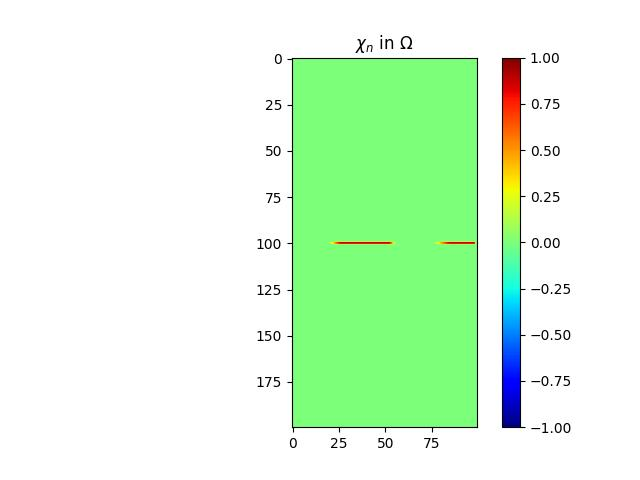
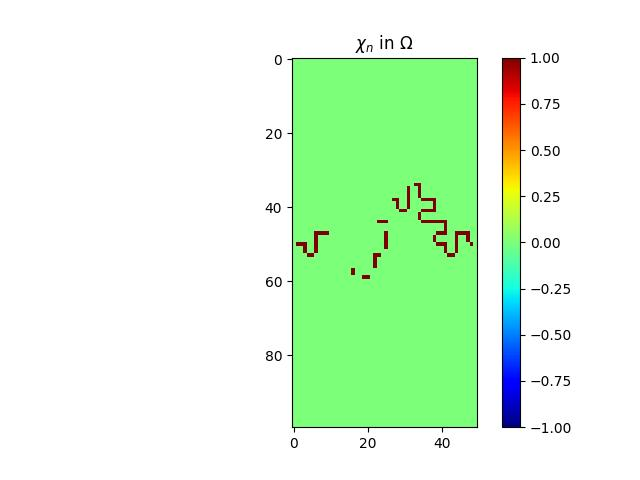
dgx

diff --git a/demo_control_polycopie2023.py b/demo_control_polycopie2023.py
@@ -145,6 +145,37 @@ def compute_projected(chi, domain, V_obj):
 
     return chi
 
+def compute_projected2(chi, domain, V_obj):
+    chi = processing.set2zero(chi, domain)
+    robin = domain == _env.NODE_ROBIN
+    S = domain[robin].size
+    
+    xmin = np.min(chi[robin])
+    xmax = np.max(chi[robin])
+    x = xmin 
+    
+    new_chi = chi.copy()
+    new_chi[chi < x] = 0
+    new_chi[chi >= x] = 1
+    
+    V = np.sum(np.abs(new_chi[robin]))/S
+    
+    while np.abs(V - V_obj) > 1e-1:
+        if V > V_obj:
+            xmin = x
+            x = (xmax + x)/2
+        else:
+            xmax = x
+            x = (x + xmin)/2
+        
+        new_chi[chi < x] = 0
+        new_chi[chi >= x] = 1
+        
+        V = np.sum(np.abs(new_chi[robin]))/S
+    
+    return new_chi
+        
+
 def optimization_procedure(domain_omega, spacestep, omega, f, f_dir, f_neu, f_rob,
                            beta_pde, alpha_pde, alpha_dir, beta_neu, beta_rob, alpha_rob,
                            Alpha, mu, chi, V_obj):
@@ -162,7 +193,6 @@ def optimization_procedure(domain_omega, spacestep, omega, f, f_dir, f_neu, f_ro
     numb_iter = 4
     energy = np.zeros((numb_iter, 1), dtype=np.float64)
     while k < numb_iter and mu > mu_min:
-        
         u = processing.solve_helmholtz(domain_omega, spacestep, omega, f, f_dir, f_neu, f_rob,
                                        beta_pde, alpha_pde, alpha_dir, beta_neu, beta_rob, chi*Alpha)
         p = processing.solve_helmholtz(domain_omega, spacestep, omega, -2*np.conjugate(u), np.zeros(f_dir.shape), f_neu, f_rob,
@@ -186,8 +216,9 @@ def optimization_procedure(domain_omega, spacestep, omega, f, f_dir, f_neu, f_ro
             
             
             ene = new_ene
-            
-        chi = new_chi.copy()
+        
+        if ene <= energy[k]: 
+            chi = compute_projected2(new_chi, domain_omega, V_obj)
         k += 1
 
     energy = energy[0:k]
@@ -220,7 +251,7 @@ if __name__ == '__main__':
     # -- set parameters of the geometry
     N = 50  # number of points along x-axis
     M = 2 * N  # number of points along y-axis
-    level = 0 # level of the fractal
+    level = 2 # level of the fractal
     spacestep = 1.0 / N  # mesh size
 
     # -- set parameters of the partial differential equation
@@ -332,7 +363,7 @@ if __name__ == '__main__':
         
         _u_rand = processing.solve_helmholtz(domain_omega, spacestep, _k, f, f_dir, f_neu, f_rob,
                         beta_pde, alpha_pde, alpha_dir, beta_neu, beta_rob, _chi_rand.copy()*_alpha)
-        _e_rand = compute_objective_function(domain_omega, _u, spacestep)
+        _e_rand = compute_objective_function(domain_omega, _u_rand, spacestep)
         _E_rand.append(_e)
         
         
